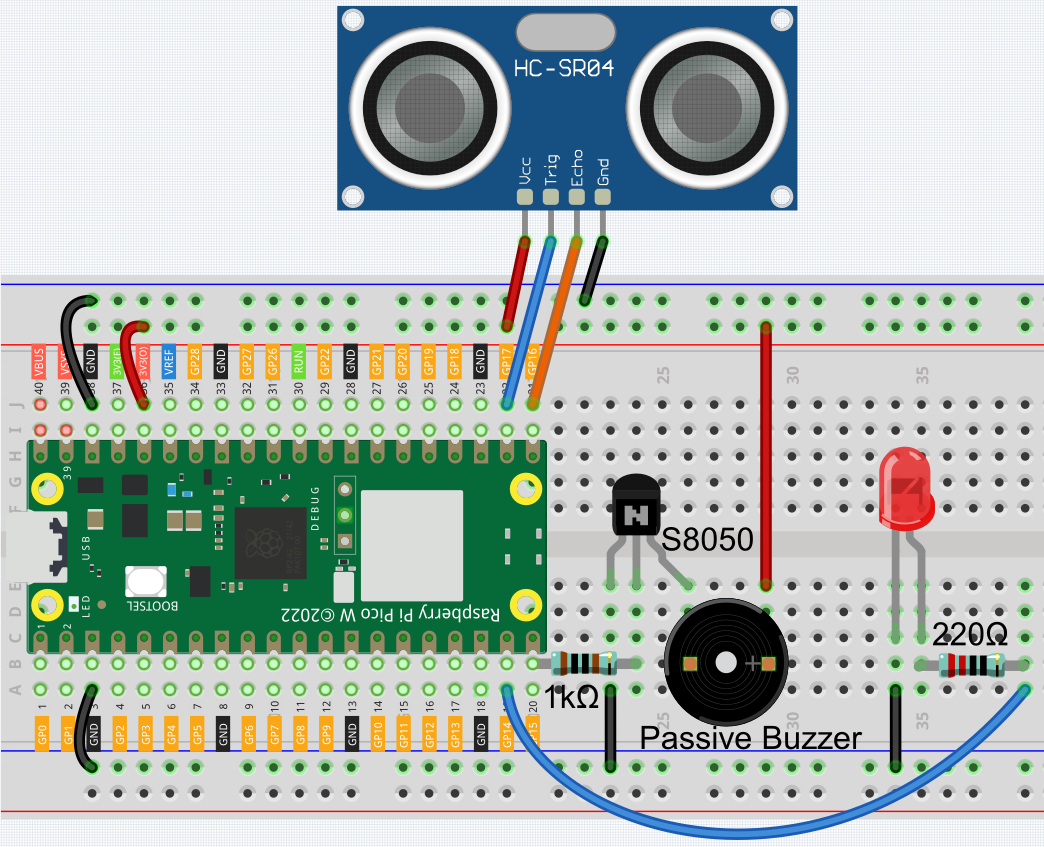
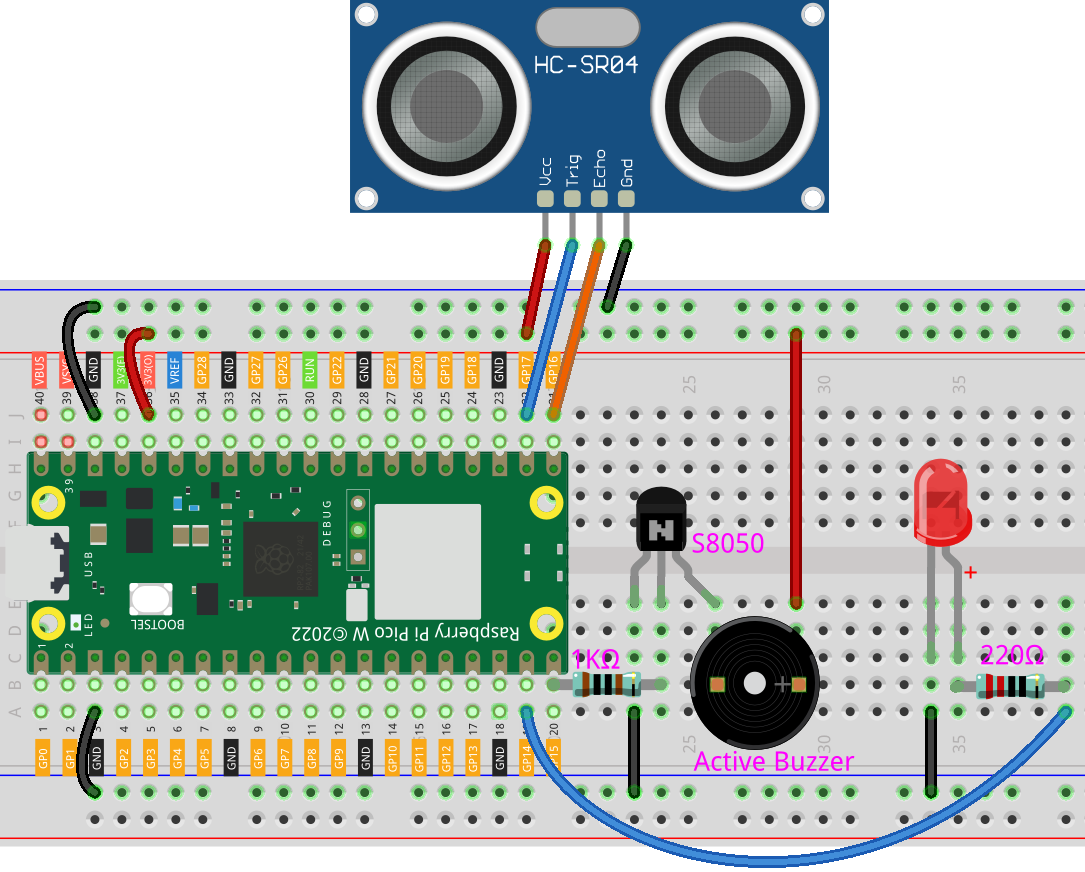
update the code

diff --git a/docs/source/pyproject/py_reversing_aid.rst b/docs/source/pyproject/py_reversing_aid.rst
@@ -76,9 +76,9 @@ Puoi anche acquistarli separatamente dai link sottostanti.
         - 2(1KΩ, 220Ω)
         - |link_resistor_buy|
     *   - 7
-        - Cicalino Passivo :ref:`cpn_buzzer`
+        - Cicalino Attivo :ref:`cpn_buzzer`
         - 1
-        - |link_passive_buzzer_buy|
+        -
     *   - 8
         - :ref:`cpn_led`
         - 1
@@ -107,85 +107,90 @@ Puoi anche acquistarli separatamente dai link sottostanti.
 
     * Per tutorial dettagliati, fai riferimento a :ref:`open_run_code_py`.
 
-
-
 .. code-block:: python
-
 
     import machine
     import time
-    import _thread
 
+    # Initialize pins for the buzzer and LED
+    buzzer = machine.Pin(15, machine.Pin.OUT)  # Buzzer on pin 15
+    led = machine.Pin(14, machine.Pin.OUT)  # LED on pin 14
 
-    buzzer = machine.Pin(15, machine.Pin.OUT)
-    led = machine.Pin(14, machine.Pin.OUT)
+    # Initialize pins for the ultrasonic sensor (HC-SR04)
+    TRIG = machine.Pin(17, machine.Pin.OUT)  # Trigger pin for the ultrasonic sensor
+    ECHO = machine.Pin(16, machine.Pin.IN)  # Echo pin for the ultrasonic sensor
 
-    TRIG = machine.Pin(17,machine.Pin.OUT)
-    ECHO = machine.Pin(16,machine.Pin.IN)
+    dis = 100  # Global variable to store the distance
 
-    dis = 100
-
+    # Function to measure distance using the ultrasonic sensor
     def distance():
-        timeout=10000*5/340 
         TRIG.low()
         time.sleep_us(2)
         TRIG.high()
         time.sleep_us(10)
         TRIG.low()
-        timeout_start = time.ticks_ms() # For timeout, re-read distance
+
+        timeout_start = time.ticks_us()  # Use microseconds for more precision
+        
+        # Wait for ECHO pin to go high (start of echo pulse)
         while not ECHO.value():
-            waiting_time = time.ticks_ms()
-            if waiting_time - timeout_start > timeout:
-                return -1
-        time1 = time.ticks_us()
+            if time.ticks_diff(time.ticks_us(), timeout_start) > 30000:  # 30ms timeout
+                return -1  # Timeout, return -1 if no pulse is detected
+        
+        time1 = time.ticks_us()  # Start time for pulse width calculation
+        
+        # Wait for ECHO pin to go low (end of echo pulse)
         while ECHO.value():
-            waiting_time = time.ticks_ms()
-            if waiting_time - timeout_start > timeout:
-                return -1
-        time2 = time.ticks_us()
-        during = time.ticks_diff(time2 ,time1)
-        return during * 340 / 2 / 10000
+            if time.ticks_diff(time.ticks_us(), time1) > 30000:  # 30ms timeout
+                return -1  # Timeout, return -1 if pulse is too long
+        
+        time2 = time.ticks_us()  # End time for pulse width calculation
+        
+        # Calculate the distance based on the duration of the echo pulse
+        during = time.ticks_diff(time2, time1)
+        distance_cm = during * 340 / 2 / 10000  # Convert time to distance in cm
+        return distance_cm
 
-    def ultrasonic_thread():
-        global dis
-        while True:
-            dis = distance()
-
-    _thread.start_new_thread(ultrasonic_thread, ())
-
+    # Function to beep the buzzer and light up the LED
     def beep():
-        buzzer.value(1)
-        led.value(1)
-        time.sleep(0.1)
-        buzzer.value(0)
-        led.value(0)
-        time.sleep(0.1)
+        buzzer.value(1)  # Turn on the buzzer
+        led.value(1)  # Turn on the LED
+        time.sleep(0.1)  # Beep duration
+        buzzer.value(0)  # Turn off the buzzer
+        led.value(0)  # Turn off the LED
+        time.sleep(0.1)  # Short pause between beeps
 
-    intervals = 10000000
-    previousMills=time.ticks_ms()
-    time.sleep(1) 
+    # Initialize variables for controlling beep intervals
+    intervals = 2000  # Default long initial interval
+    previousMillis = time.ticks_ms()  # Store the previous time to track beep intervals
 
+    # Main loop to handle distance-based beeping intervals
     while True:
-        if dis<0:
-            pass
-        elif dis <= 10:
-            intervals = 300
-        elif dis <= 20:
-            intervals =500
-        elif dis <=50:
-            intervals =1000
-        else:
-            intervals = 2000
-        if dis!=-1:
-            print ('Distance: %.2f' % dis)
-            time.sleep_ms(100)
+        dis = distance()  # Measure the distance directly in the main loop
 
-        
-        currentMills=time.ticks_ms()
-        
-        if time.ticks_diff(currentMills,previousMills)>=intervals:
-            beep()
-            previousMills=currentMills
+        # Adjust beep intervals based on the distance
+        if dis > 0:  # Ensure valid distance is measured
+            if dis <= 10:
+                intervals = 300  # Close distance, faster beeps
+            elif dis <= 20:
+                intervals = 500  # Medium-close distance, moderate beeps
+            elif dis <= 50:
+                intervals = 1000  # Medium distance, slower beeps
+            else:
+                intervals = 2000  # Far distance, much slower beeps
+
+            # Print the measured distance
+            print(f'Distance: {dis:.2f} cm')
+            
+            # Check if it's time to beep again based on the interval
+            currentMillis = time.ticks_ms()  # Get the current time
+            if time.ticks_diff(currentMillis, previousMillis) >= intervals:
+                beep()  # Beep the buzzer and blink the LED
+                previousMillis = currentMillis  # Update the time of the last beep
+            
+        time.sleep_ms(100)  # Small delay to avoid too frequent readings
+
+
         
 * Non appena il programma viene eseguito, il sensore a ultrasuoni leggerà continuamente la distanza dall'ostacolo di fronte a te, e sarai in grado di vedere il valore esatto della distanza sulla shell.
 * Il LED e il cicalino modificheranno la frequenza di lampeggio e di beep in base al valore della distanza, indicando così l'avvicinamento dell'ostacolo.

diff --git a/docs/source/cproject/ar_pa_buz.rst b/docs/source/cproject/ar_pa_buz.rst
@@ -80,7 +80,7 @@ Puoi anche acquistarli separatamente dai link qui sotto.
         - 1 (1KΩ)
         - |link_resistor_buy|
     *   - 7
-        - Passive :ref:`cpn_buzzer`
+        - Cicalino Passivo :ref:`cpn_buzzer`
         - 1
         - |link_passive_buzzer_buy|
 

diff --git a/docs/source/cproject/ar_ac_buz.rst b/docs/source/cproject/ar_ac_buz.rst
@@ -74,7 +74,7 @@ Puoi anche acquistarli separatamente dai link qui sotto.
         - 1(1KΩ)
         - |link_resistor_buy|
     *   - 7
-        - Buzzer Attivo :ref:`cpn_buzzer`
+        - Cicalino Attivo :ref:`cpn_buzzer`
         - 1
         - 
 
